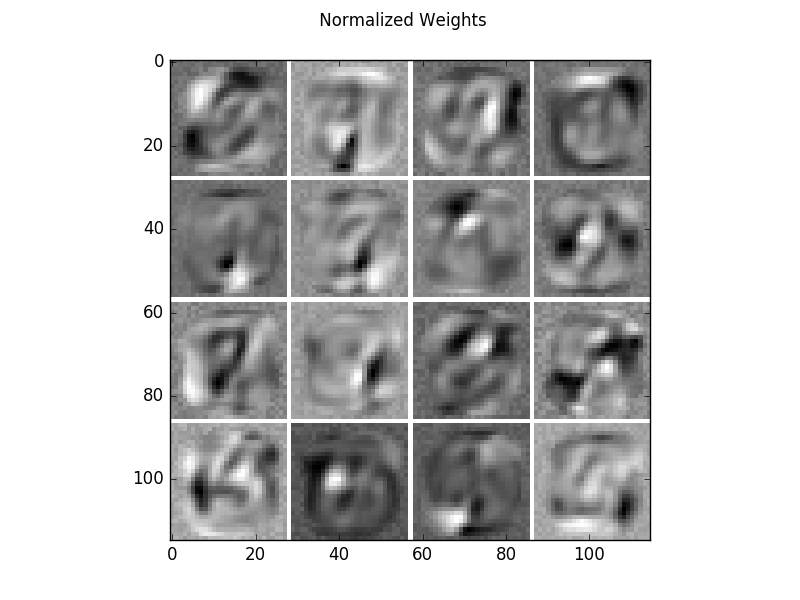
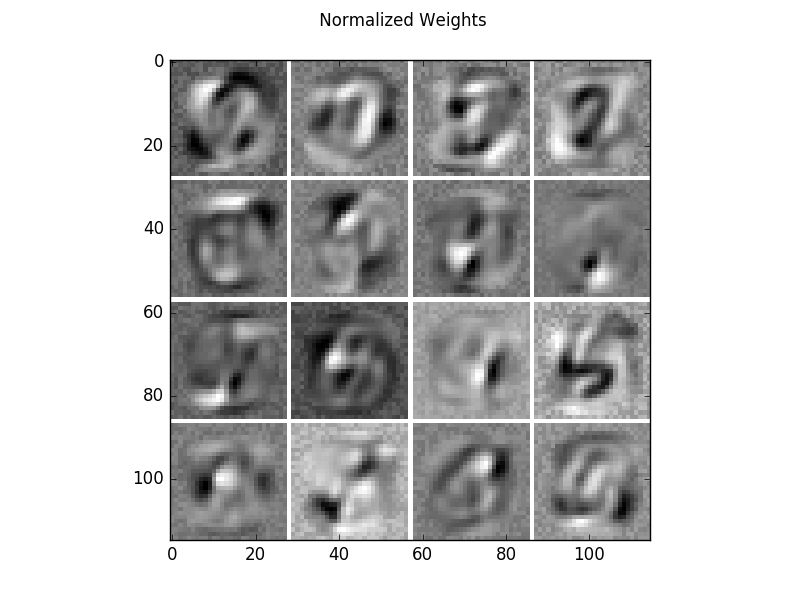
Documentatino splitted

Changed region(s): [[0.1875, 0.09, 0.8125, 0.9]]

diff --git a/examples/RBM_MNIST_small.py b/examples/RBM_MNIST_small.py
@@ -47,7 +47,7 @@ import pydeep.misc.measuring as mea
 # Choose normal/centered RBM and normal/flipped MNIST
 
 # normal/centered RBM --> 0.0/0.01
-update_offsets = 0.01
+update_offsets = 0.0
 
 # Flipped/Normal MNIST --> True/False
 flipped = False
@@ -66,10 +66,14 @@ train_data = numx.vstack((train_data, valid_data))
 # Flip the dataset if chosen
 if flipped:
     train_data = 1 - train_data
+    test_data = 1 - test_data
+    print("Flipped MNIST")
+else:
+    print("Normal MNIST")
 
 # Training parameters
 batch_size = 100
-epochs = 40
+epochs = 50
 
 # Create centered or normal model
 if update_offsets <= 0.0:
@@ -78,12 +82,14 @@ if update_offsets <= 0.0:
                                 data=train_data,
                                 initial_visible_offsets=0.0,
                                 initial_hidden_offsets=0.0)
+    print("Normal RBM")
 else:
     rbm = model.BinaryBinaryRBM(number_visibles=v1 * v2,
                                 number_hiddens=h1 * h2,
                                 data=train_data,
                                 initial_visible_offsets='AUTO',
                                 initial_hidden_offsets='AUTO')
+    print("Centered RBM")
 
 # Create trainer
 trainer_pcd = trainer.PCD(rbm, num_chains=batch_size)
@@ -95,9 +101,6 @@ measurer = mea.Stopwatch()
 print('Training')
 print('Epoch\tRecon. Error\tLog likelihood train\tLog likelihood test\tExpected End-Time')
 for epoch in range(epochs):
-
-    # Shuffle training samples (optional)
-    train_data = numx.random.permutation(train_data)
 
     # Loop over all batches
     for b in range(0, train_data.shape[0], batch_size):

diff --git a/examples/RBM_MNIST_big.py b/examples/RBM_MNIST_big.py
@@ -43,7 +43,7 @@ import pydeep.misc.visualization as vis
 import pydeep.misc.measuring as mea
 
 # normal/centered RBM --> 0.0/0.01
-update_offsets = 0.01
+update_offsets = 0.0
 
 # Set random seed (optional)
 numx.random.seed(42)
@@ -90,9 +90,6 @@ measurer = mea.Stopwatch()
 print('Training')
 print('Epoch\t\tRecon. Error\tLog likelihood \tExpected End-Time')
 for epoch in range(1, epochs + 1):
-
-    # Shuffle training samples (optional)
-    train_data = numx.random.permutation(train_data)
 
     # Loop over all batches
     for b in range(0, train_data.shape[0], batch_size):

diff --git a/docs/tutorials/RBM_MNIST_small.rst b/docs/tutorials/RBM_MNIST_small.rst
@@ -1,17 +1,17 @@
 Small centered/normal binary RBM on MNIST
 ==========================================================
 
-Example for training a centered and normal Binary Restricted Boltzmann machine on the MNIST handwritten digit dataset and the flipped version.
-The model is small enough to calculate the exact Log-Likelihood and annealed importance sampling and reverse annealed importance sampling are evaluated.
+Example for training a centered and normal Binary Restricted Boltzmann machine on the MNIST handwritten digit dataset and its flipped version.
+The model is small enough to calculate the exact log-Likelihood. For comparision annealed importance sampling and reverse annealed importance sampling are used for estimating the partition function.
 
 Theory
 ***********
 
-For an analysis of advantage of centering in RBMs see `How to Center Deep Boltzmann Machines. Melchior, J., Fischer, A., & Wiskott, L.. (2016). Journal of Machine Learning Research, 17(99), 1–61. <http://jmlr.org/papers/v17/14-237.html>`_
+For an analysis of the advantage of centering in RBMs see `How to Center Deep Boltzmann Machines. Melchior, J., Fischer, A., & Wiskott, L.. (2016). Journal of Machine Learning Research, 17(99), 1–61. <http://jmlr.org/papers/v17/14-237.html>`_
 
-If you are new on RBMs, have a look into my `master's theses <https://www.ini.rub.de/PEOPLE/wiskott/Reprints/Melchior-2012-MasterThesis-RBMs.pdf>`_
+If you are new on RBMs, you can have a look into my `master's theses <https://www.ini.rub.de/PEOPLE/wiskott/Reprints/Melchior-2012-MasterThesis-RBMs.pdf>`_
 
-A good theoretical introduction is also given by `Course Material RBMs <https://www.ini.rub.de/PEOPLE/wiskott/Teaching/Material/index.html>`_ and in the following video.
+A good theoretical introduction is also given by `Course Material RBMs <https://www.ini.rub.de/PEOPLE/wiskott/Teaching/Material/index.html>`_ including video lectures
 
 .. raw:: html
 
@@ -39,7 +39,7 @@ The filters have been normalized such that the structure is more prominent.
    :scale: 75 %
    :alt: weights centered
 
-Sampling results for some examples. The first row shows training data and the following rows are the results after one Gibbs-sampling step starting from the previous row.
+Sampling results for some examples. The first row shows the training data and the following rows are the results after one Gibbs-sampling step starting from the previous row.
 
 .. figure:: images/BRBM_small_centered_samples.png
    :scale: 75 %
@@ -49,17 +49,9 @@ The Log-Likelihood is calculated using the exact Partition function, an annealed
 
 .. code-block:: Python
 
-   Training
-   Epoch    Recon. Error   Log likelihood  Expected End-Time
-   10       0.0519         -152.8375       2017-04-22 19:19:20.492937
-   20       0.0512         -144.6574       2017-04-22 19:19:18.518975
-   30       0.0510         -143.9597       2017-04-22 19:19:18.118906
-   End-time:                               2017-04-22 19:19:06.424132
-   Training time:          0:03:37.913801
-   True Partition:         332.061422631 (LL: -143.295691625)
-   AIS Partition:          331.856312898 (LL: -143.090581892)
-   reverse AIS Partition:  333.975682243 (LL: -145.209951237)
-
+True Partition:         310.18444704  (LL train: -143.149739926, LL test: -142.56382054)
+AIS Partition:          309.693954732 (LL train: -142.659247618, LL test: -142.073328232)
+reverse AIS Partition:  316.30736142  (LL train: -149.272654305, LL test: -148.686734919)
 
 The code can also be executed without centering by setting
 
@@ -68,34 +60,24 @@ The code can also be executed without centering by setting
    update_offsets = 0.0
 
 Resulting in the following weights and sampling steps.
-The filters have been normalized such that the structure is more prominent.
 
 .. figure:: images/BRBM_small_normal_weights.png
    :scale: 75 %
    :alt: weights normal
 
-Sampling results for some examples. The first row shows training data and the following rows are the result after one Gibbs-sampling step.
-
 .. figure:: images/BRBM_small_normal_samples.png
    :scale: 75 %
    :alt: samples normal
 
-The Log-Likelihood for this model is significantly worse (8 nats lower).
+The Log-Likelihood for this model is worse (6.5 nats lower).
 
 .. code-block:: Python
 
-   Epoch    Recon. Error   Log likelihood  Expected End-Time
-   10       0.0550         -153.1939       2017-04-22 19:48:31.196758
-   20       0.0538         -158.0558       2017-04-22 19:48:30.991562
-   30       0.0534         -154.9978       2017-04-22 19:48:31.701043
-   End-time:                               2017-04-22 19:48:17.356501
-   Training time:          0:03:51.361354
-   True Partition:         209.93080041  (LL: -151.678071606)
-   AIS Partition:          209.922151068 (LL: -151.669422263)
-   reverse AIS Partition:  209.55108856  (LL: -151.298359755)
+   True Partition:         190.951945786 (LL train: -149.605105935, LL test: -149.053303204)
+   AIS Partition:          191.095934868 (LL train: -149.749095017, LL test: -149.197292286)
+   reverse AIS Partition:  191.192036843 (LL train: -149.845196992, LL test: -149.293394261)
 
 Further, the models can be trained on the flipped version of MNIST (1-MNIST).
-The filters have been normalized such that the structure is more prominent.
 
 .. code-block:: python
 
@@ -103,44 +85,29 @@ The filters have been normalized such that the structure is more prominent.
 
 .. _code:
 
-While the centerer model has a similar performance on the flipped version,
+While the centered model has a similar performance on the flipped version,
 
 .. code-block:: Python
 
-   Epoch    Recon. Error  Log likelihood  Expected End-Time
-   10       0.0520        -145.0683       2017-04-22 20:10:32.506455
-   20       0.0513        -143.1599       2017-04-22 20:10:41.450600
-   30       0.0510        -143.4857       2017-04-22 20:10:40.404681
-   End-time:                              2017-04-22 20:10:29.587139
-   Training time:         0:08:21.800137
-   True Partition:        330.041980724 (LL: -142.715842237)
-   AIS Partition:         329.78134331  (LL: -142.455204822)
-   reverse AIS Partition: 331.047724145 (LL: -143.721585658)
+   True Partition:         310.245654321 (LL train: -142.812529437, LL test: -142.08692014)
+   AIS Partition:          311.177617039 (LL train: -143.744492155, LL test: -143.018882858)
+   reverse AIS Partition:  309.188366165 (LL train: -141.755241282, LL test: -141.029631984)
 
 .. figure:: images/BRBM_small_centered_weights_flipped.png
    :scale: 75 %
    :alt: flipped filters centered
 
-Sampling results for some examples. The first row shows training data and the following rows are the result after one Gibbs-sampling step.
-
 .. figure:: images/BRBM_small_centered_samples_flipped.png
    :scale: 75 %
    :alt: flipped samples centered
 
-The normal RBM fails to learn the distribution.
-The filters have been normalized such that the structure is more prominent.
+The normal RBM has not.
 
 .. code-block:: Python
 
-   Epoch    Recon. Error  Log likelihood  Expected End-Time
-   10       0.0588        -183.3271       2017-04-22 20:10:26.751454
-   20       0.0580        -206.4093       2017-04-22 20:10:35.824502
-   30       0.0576        -180.9389       2017-04-22 20:10:33.400136
-   End-time:                              2017-04-22 20:10:12.549085
-   Training time:         0:07:56.808453
-   True Partition:        3755.27224976 (LL: -193.127765428)
-   AIS Partition:         3755.25179256 (LL: -193.10730823)
-   reverse AIS Partition: 3755.18060949 (LL: -193.036125159)
+   True Partition:         3495.27200694 (LL train: -183.259299994, LL test: -183.359988079)
+   AIS Partition:          3495.25941111 (LL train: -183.246704163, LL test: -183.347392249)
+   reverse AIS Partition:  3495.20117625 (LL train: -183.188469308, LL test: -183.289157393)
 
 .. figure:: images/BRBM_small_normal_weights_flipped.png
    :scale: 75 %

diff --git a/docs/tutorials/RBM_MNIST_big.rst b/docs/tutorials/RBM_MNIST_big.rst
@@ -1,9 +1,9 @@
 Big centered binary RBM on MNIST
 ==========================================================
 
-Example for training a centered binary restricted Boltzmann machine on the MNIST handwritten digit dataset.
-The model has 500 hidden units, is trainer 200 epochs, and the Log-likelihood is evaluated using Annealed Importance Sampling.
-and allows to reproduce the the results from the publication `How to Center Deep Boltzmann Machines. Melchior, J., Fischer, A., & Wiskott, L.. (2016). Journal of Machine Learning Research, 17(99), 1–61. <http://jmlr.org/papers/v17/14-237.html>`_
+Example for training a centered and normal binary restricted Boltzmann machine on the MNIST handwritten digit dataset.
+The model has 500 hidden units, is trained for 200 epochs, and the log-likelihood is evaluated using annealed importance sampling.
+It allows to reproduce the results from the publication `How to Center Deep Boltzmann Machines. Melchior, J., Fischer, A., & Wiskott, L.. (2016). Journal of Machine Learning Research, 17(99), 1–61. <http://jmlr.org/papers/v17/14-237.html>`_
 Running the code as it is reproduces a single trial of the plot in Figure 9. (PCD-1) for $dd^b_s$.
 
 See also `RBM_MNIST_small <RBM_MNIST_small.html#RBM_MNIST_small>`__.
@@ -11,11 +11,11 @@ See also `RBM_MNIST_small <RBM_MNIST_small.html#RBM_MNIST_small>`__.
 Theory
 ***********
 
-For an analysis of advantage of centering in RBMs see `How to Center Deep Boltzmann Machines. Melchior, J., Fischer, A., & Wiskott, L.. (2016). Journal of Machine Learning Research, 17(99), 1–61. <http://jmlr.org/papers/v17/14-237.html>`_
+For an analysis of the advantage of centering in RBMs see `How to Center Deep Boltzmann Machines. Melchior, J., Fischer, A., & Wiskott, L.. (2016). Journal of Machine Learning Research, 17(99), 1–61. <http://jmlr.org/papers/v17/14-237.html>`_
 
-If you are new on RBMs, have a look into my `master's theses <https://www.ini.rub.de/PEOPLE/wiskott/Reprints/Melchior-2012-MasterThesis-RBMs.pdf>`_
+If you are new on RBMs, you can have have a look into my `master's theses <https://www.ini.rub.de/PEOPLE/wiskott/Reprints/Melchior-2012-MasterThesis-RBMs.pdf>`_
 
-A good theoretical introduction is also given by `Course Material RBMs <https://www.ini.rub.de/PEOPLE/wiskott/Teaching/Material/index.html>`_ and in the following video.
+A good theoretical introduction is also given by `Course Material RBMs <https://www.ini.rub.de/PEOPLE/wiskott/Teaching/Material/index.html>`_ including a video lecture.
 
 .. raw:: html
 
@@ -43,19 +43,42 @@ The filters have been normalized such that the structure is more prominent.
    :scale: 75 %
    :alt: weights centered
 
-Sampling results for some examples. The first row shows training data and the following rows are the results after one Gibbs-sampling step starting from the previous row.
+Sampling results for some examples. The first row shows some training data and the following rows are the results after one Gibbs-sampling step starting from the previous row.
 
 .. figure:: images/BRBM_big_centered_samples.png
    :scale: 75 %
    :alt: samples centered
 
-The Log-Likelihood is calculated using annealed importance sampling estimation (optimistic) and reverse annealed importance sampling estimation (pessimistic).
+The log-Likelihood is estimated using annealed importance sampling (optimistic) and reverse annealed importance sampling (pessimistic).
 
 .. code-block:: Python
 
-   Training time:          0:49:51.186054
-   AIS Partition:          951.21017149  (LL: -76.0479396244)
-   reverse AIS Partition:  954.687597369 (LL: -79.525365503)
+   Training time:         1:18:12.536887
+   AIS Partition:         968.971299741 (LL train: -82.5839850187, LL test: -84.8560508601)
+   reverse AIS Partition: 980.722421486 (LL train: -94.3351067638, LL test: -96.6071726052)
+
+Now we have a look at the filters learned for a normal binary RBM with 500 hidden units on the MNIST dataset.
+The filters have also been normalized such that the structure is more prominent.
+
+.. figure:: images/BRBM_big_normal_weights.png
+   :scale: 75 %
+   :alt: weights centered
+
+Sampling results for some examples. The first row shows the training data and the following rows are the results after one Gibbs-sampling step starting from the previous row.
+
+.. figure:: images/BRBM_big_normal_samples.png
+   :scale: 75 %
+   :alt: samples centered
+
+.. code-block:: Python
+
+   Training time:	      1:16:37.808645
+   AIS Partition:         959.098055647 (LL train: -128.009777345, LL test: -130.808849443)
+   reverse AIS Partition: 958.714291654 (LL train: -127.626013352, LL test: -130.42508545)
+
+The structure of the filters and the samples are quite similar. But the samples for the centered RBM look a bit sharper
+and the log-likelihood is significantly higher. Note that zou can reach better values with normal RBMs but this highly
+depends pm the training setup. while centering is rather robust to that.
 
 Source code
 ***********

diff --git a/docs/tutorials/ICA_2D_example.rst b/docs/tutorials/ICA_2D_example.rst
@@ -3,10 +3,10 @@
 Independent Component Analysis on a 2D example.
 =======================================================
 
-Example for Independent Component Analysis (`ICA <https://en.wikipedia.org/wiki/Principal_component_analysis>`_) used
-for a blind source separation on a linear 2D mixture.
+Example for Independent Component Analysis (`ICA <https://en.wikipedia.org/wiki/Principal_component_analysis>`_) used for blind source separation on a linear 2D mixture.
 
-If you are new on ICA and blind source separation, a good theoretical introduction is given by `Course Material ICA <https://www.ini.rub.de/PEOPLE/wiskott/Teaching/Material/index.html>`_ and in the following videos.
+If you are new on ICA and blind source separation, a good theoretical introduction is given by `Course Material ICA <https://www.ini.rub.de/PEOPLE/wiskott/Teaching/Material/index.html>`_ .
+As well as a video lecture on linear mixtures and blind source separation
 
 .. raw:: html
 
@@ -14,7 +14,7 @@ If you are new on ICA and blind source separation, a good theoretical introducti
       <iframe width="560" height="315" src="http://www.youtube.com/embed/3eWuUWODE4o" frameborder="0" allowfullscreen></iframe>
     </div>
 
-and the follow up video introduces to ICA.
+and the follow up video giving an introduction to ICA.
 
 .. raw:: html
 
@@ -33,14 +33,14 @@ Visualization of the data and true mixing matrix projected to the whitened space
    :scale: 75 %
    :alt: Examples of Mixing matrix 2D in whitened space
 
-Visualization of the whitened data with the ICA projection matrix, that is the estimation of the whitened mxining matrix.
-Note that ICA is invariant to sign flips of the sources. Thus the columns of the estimated mixing matrix are most likely a permutation of the columns of the original mixing matrix's and can also be the 180 degrees rotated version (original vector multiplied by -1).
+Visualization of the whitened data with the ICA projection matrix, that is the estimation of the whitened mixing matrix.
+Note that ICA is invariant to sign flips of the sources. Thus the columns of the estimated mixing matrix are most likely a permutation of the columns of the original mixing matrix's and can also be a 180 degrees rotated version (original vector multiplied by -1).
 
 .. image:: images/ICA_2D_estimate_whitened.png
    :scale: 75 %
    :alt: Examples of ICA 2D in whitened space
 
-We can also back-project the ICA projection matrix back to the original space and compare the results in the original space.
+We can also project the ICA projection matrix back to the original space and compare the results in the original space.
 
 .. image:: images/ICA_2D_mixing.png
    :scale: 75 %

diff --git a/docs/tutorials/GRBM_natural_images.rst b/docs/tutorials/GRBM_natural_images.rst
@@ -1,15 +1,15 @@
 .. _ICA_Natural_Images:
 
-Gaussian-binary restricted Boltzmann machine on a natural image patches
+Gaussian-binary restricted Boltzmann machine on natural image patches
 ==========================================================
 
-Example for a  Gaussian-binary restricted Boltzmann machine on a natural image patches.
+Example for a Gaussian-binary restricted Boltzmann machine (GRBM) on a natural image patches.
 The learned filters are similar to those of ICA, see also `ICA_natural_images <ICA_natural_images.html#ICA_natural_images>`__.
 
 Theory
 ***********
 
-If you are new on RBMs, have a look into my `master's theses <https://www.ini.rub.de/PEOPLE/wiskott/Reprints/Melchior-2012-MasterThesis-RBMs.pdf>`_
+If you are new on GRBMs, have a look into my `master's theses <https://www.ini.rub.de/PEOPLE/wiskott/Reprints/Melchior-2012-MasterThesis-RBMs.pdf>`_ .
 
 For an theoretical and empirical analysis of on GRBMs on natural image patches see `Gaussian-binary restricted Boltzmann machines for modeling natural image statistics. Melchior, J., Wang, N., & Wiskott, L.. (2017). PLOS ONE, 12(2), 1–24. <http://doi.org/10.1371/journal.pone.0171015>`_
 
@@ -24,20 +24,19 @@ Visualization of the learned filters, which are very similar to those of ICA.
    :scale: 75 %
    :alt: GRBM weights unnormalized
 
-The same filter normalized independently for a better visualization of the structure.
+For a better visualization of the structure, t he same filter normalized independently.
 
 .. figure:: images/GRBM_weights_normalized.png
    :scale: 75 %
    :alt: GRBM weights normalized
 
-Sampling results for some examples. The first row shows training data and the following rows are the results after one
-   Gibbs-sampling step starting from the previous row.
+Sampling results for some examples. The first row shows training data and the following rows are the results after one step of Gibbs-sampling starting from the previous row.
 
 .. figure:: images/GRBM_samples.png
    :scale: 75 %
    :alt: GRBM samples
 
-The log-likelihood of training and test data
+The log-likelihood and reconstruction error for training and test data
 
 .. code-block:: Python
 
